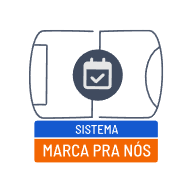
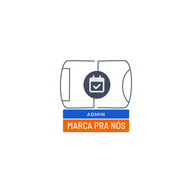
fix(pwa): ícones ADMIN da marca e limpeza de assets do Vite
Substitui os ícones copiados do manager pela tarja ADMIN e remove o scaffold icons.svg do precache.

Changed region(s): [[0.125, 0.1562, 0.875, 0.875]]

diff --git a/vite.config.ts b/vite.config.ts
@@ -12,7 +12,8 @@ export default defineConfig({
       includeAssets: [
         'favicon.svg',
         'apple-touch-icon.png',
-        'icons.svg',
+        'icon-192x192.png',
+        'icon-512x512.png',
       ],
       manifest: {
         name: 'MPN Admin',

diff --git a/README.md b/README.md
@@ -23,7 +23,7 @@ Abre em [http://localhost:5174](http://localhost:5174).
 |----------|-----------|
 | `VITE_API_URL_BASE` | Base da API (ex.: `http://localhost:3001`) |
 | `VITE_ENVIRONMENT` | `development` / `production` |
-| `VITE_LOGO_URL` | URL do logo (mesmo do manager) |
+| `VITE_LOGO_URL` | URL do logo no header (SVG; PWA usa ícones locais com tarja ADMIN) |
 
 ## Promover seu usuário a platform_admin
 
